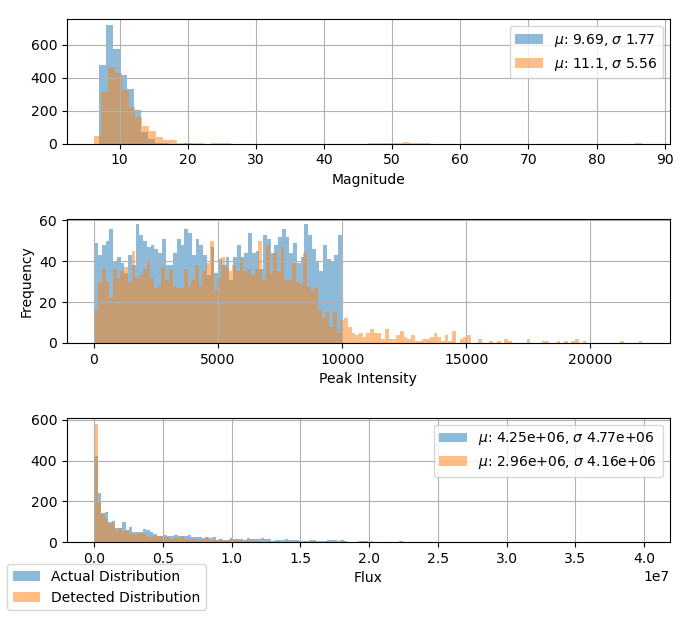
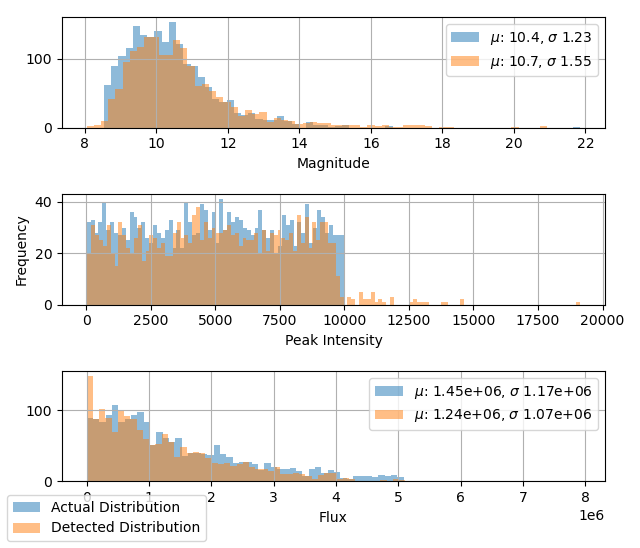
new histogram plot
2000 objects used to generate, peak amplitude ranging from 20 to 10000.
90.8% of objects detected.

diff --git a/astroop3.py b/astroop3.py
@@ -226,13 +226,13 @@ class Process_fake(Process2):
         magnitude = self.zpinst - 2.5*np.log10(flux)
         print('yesna ', len(cat))
         cat = cat.dropna()
-        imgflux = 10**((self.zpinst - cat['magnitude_'])/2.5)
+        #imgflux = 10**((self.zpinst - cat['magnitude_'])/2.5)
         print('Actual Mean: {}, Actual Std: {}'.format(magnitude.mean(),magnitude.std()))
         fig, ax = plt.subplots(3,1)
         
-        magbinnum = int((max(magnitude) - min(magnitude)))
+        magbinnum = int((max(magnitude) - min(magnitude))/0.2)
         n, bins, h1 = ax[0].hist(magnitude, bins = magbinnum, alpha = 0.5, label = '$\mu$: {:.3g}, $\sigma$ {:.3g}'.format(magnitude.mean(), magnitude.std()))
-        datmagbinnum = int((max(cat['magnitude_']) - min(cat['magnitude_'])))
+        datmagbinnum = int((max(cat['magnitude_']) - min(cat['magnitude_']))/0.2)
         n, bins, h2 = ax[0].hist(cat['magnitude_'], bins = datmagbinnum, alpha = 0.5, label = '$\mu$: {:.3g}, $\sigma$ {:.3g}'.format(cat['magnitude_'].mean(), cat['magnitude_'].std()))
         ax[0].legend()
         print('Detected Mean: {}, Detected Std: {}'.format(cat['magnitude_'].mean(),cat['magnitude_'].std()))
@@ -250,8 +250,8 @@ class Process_fake(Process2):
         ax[1].grid()
         ax[1].set_ylabel('Frequency')
 
-        fluxbinnum = int((max(flux) - min(flux))/250000)
-        datfluxbinum = int((max(cat['flux']) - min(cat['flux']))/250000)
+        fluxbinnum = int((max(flux) - min(flux))/100000)
+        datfluxbinum = int((max(cat['flux']) - min(cat['flux']))/100000)
         ax[2].hist(flux, bins = fluxbinnum, alpha = 0.5, label = '$\mu$: {:.3g}, $\sigma$ {:.3g}'.format(flux.mean(), flux.std()))
         ax[2].hist(cat['flux'], bins = datfluxbinum, alpha = 0.5, label = '$\mu$: {:.3g}, $\sigma$ {:.3g}'.format(cat['flux'].mean(), cat['flux'].std()))
         ax[2].set_xlabel('Flux')
@@ -303,14 +303,14 @@ if __name__ == '__main__':
     # 2) find the local background and use that to find flux instead of global background
     # 3) errorbars
 
-    # testobjs = {'numgal': 2000, 'numstar': 1000, 'galamp': [20000,20], 'staramp': [20000,20], 'galwidth': [10,2], 'galskew': [1,2], 'gnrange': [0.5,4] , 'starwidth': [10,4]}
-    # test = Process_fake(size = [3000,3000], noise_params={'octaves': 2, 'seed': 55, 'scale': 17, 'shift': 3418.8155053212563, 'whiterange': 10, 'whiteshift': 5}, objparams=testobjs)
+    testobjs = {'numgal': 1, 'numstar': 2000, 'galamp': [25,20], 'staramp': [10000,20], 'galwidth': [10,2], 'galskew': [1,2], 'gnrange': [0.5,4] , 'starwidth': [10,4]}
+    test = Process_fake(size = [3000,3000], noise_params={'octaves': 2, 'seed': 55, 'scale': 17, 'shift': 3418.8155053212563, 'whiterange': 36, 'whiteshift': 5}, objparams=testobjs)
 
-    # test.save_pkl('ReportImg')
+    test.save_pkl('TestData3')
 
-    # test.show_img(objscatter = True)
+    test.show_img(objscatter = True)
 
-    test = Process_frompkl('ReportImg')
+    test = Process_frompkl('TestData3')
     #test.img += np.random.normal(3450,100,(test.img.shape[0],test.img.shape[1]))
 
     fig, ax = plt.subplots(2,2)
